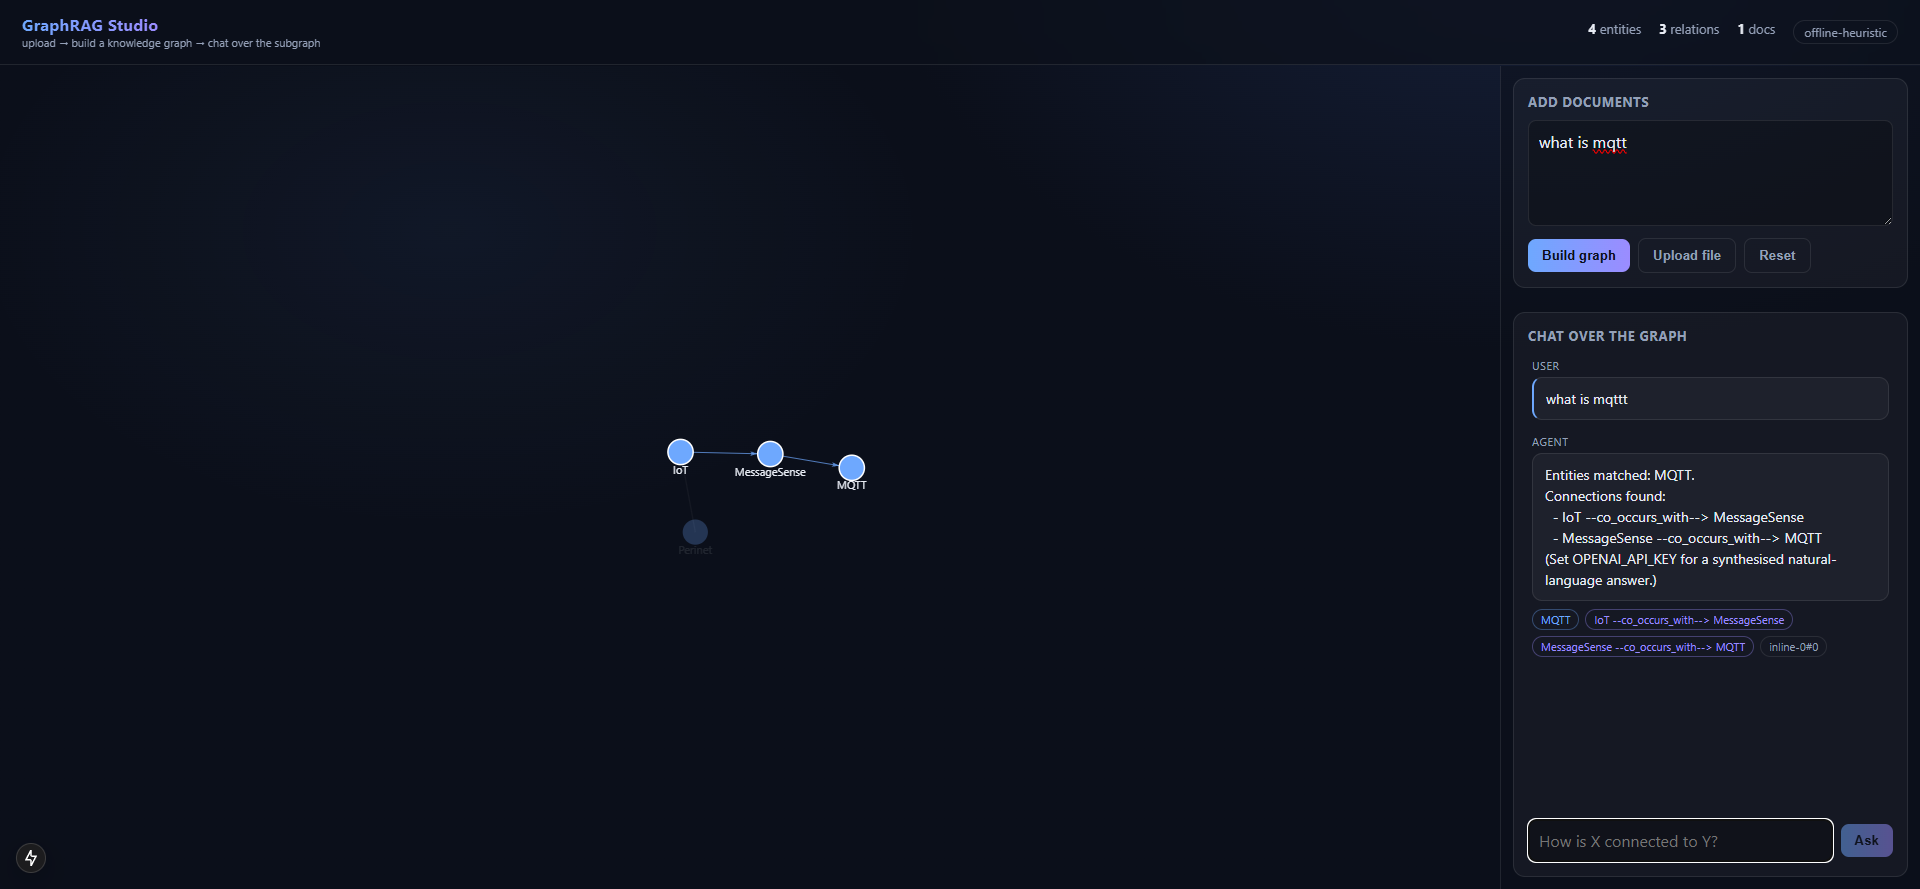
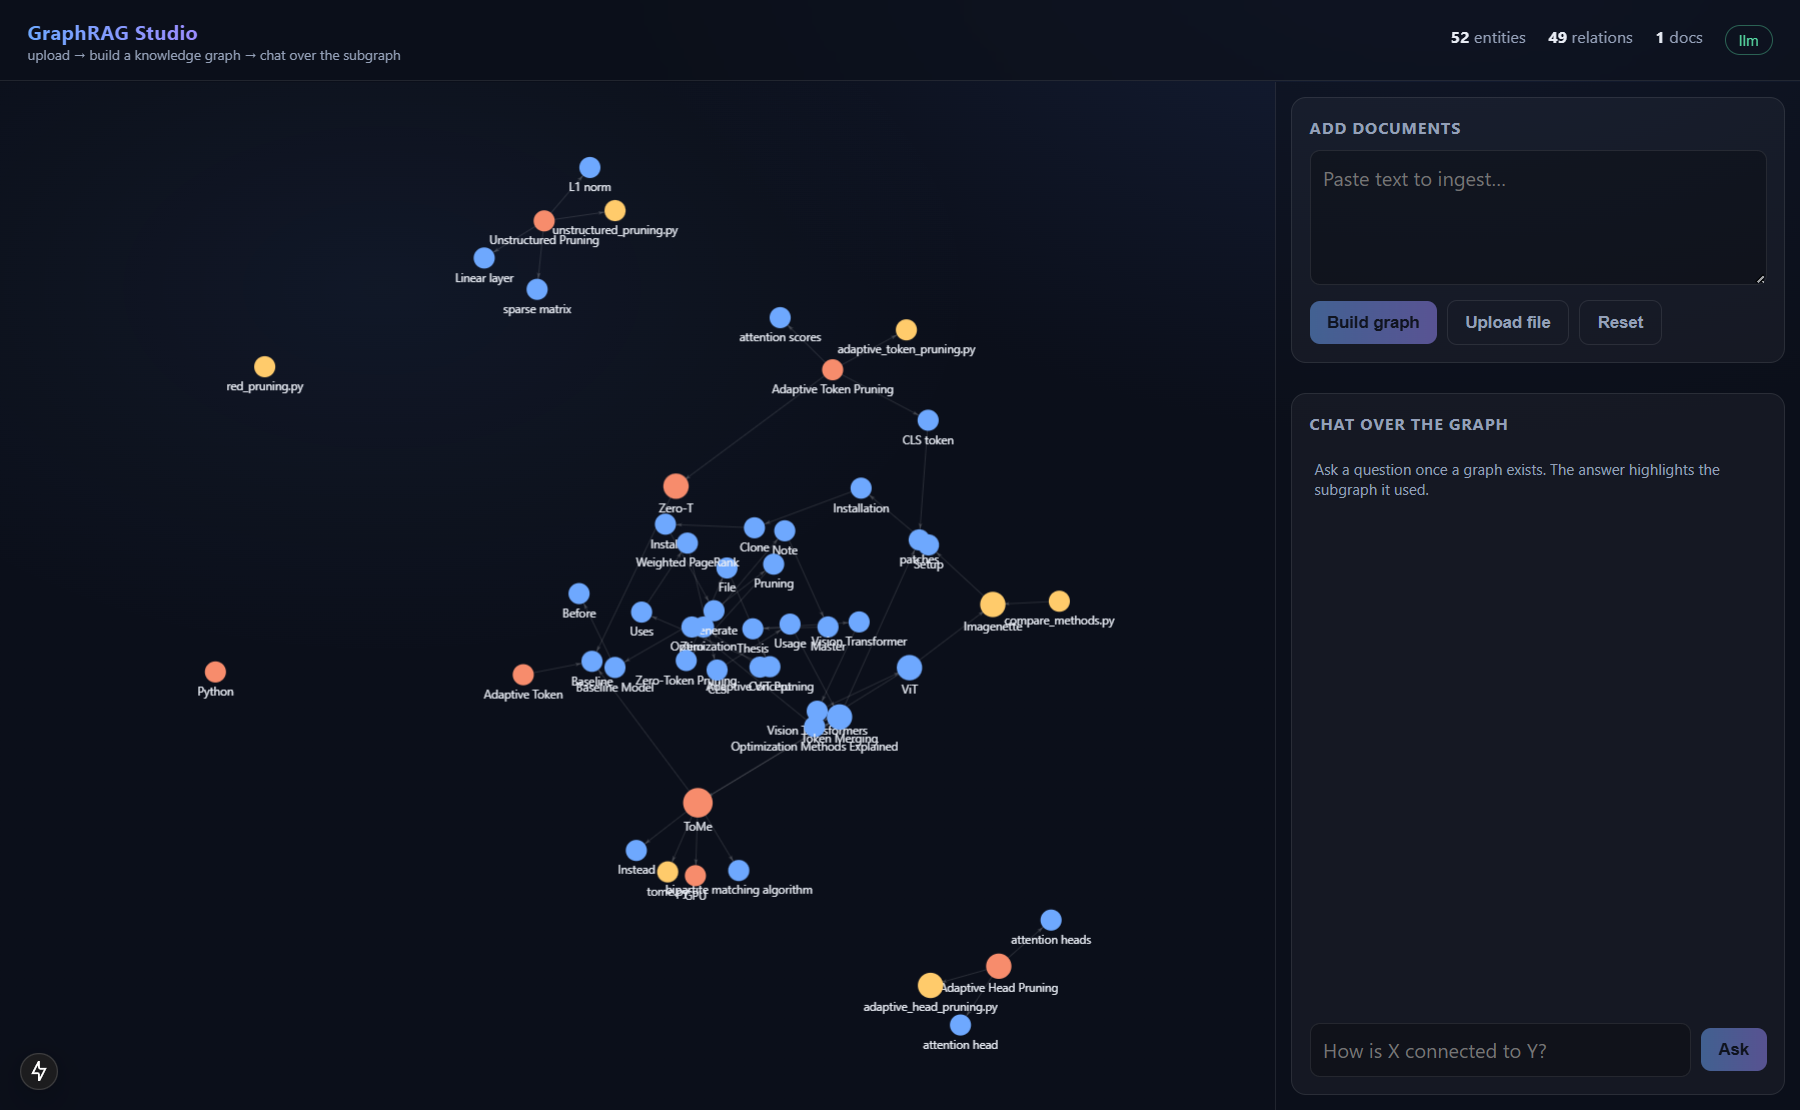
Refresh hero screenshot with new rendering + add image caption
Replace the stale home screenshot with a clean capture using the zoom-to-fit /
labelled rendering, and add a caption explaining the colour/size encoding and
subgraph highlight.

diff --git a/README.md b/README.md
@@ -29,6 +29,9 @@ library — Studio is the application layer on top of it.
 
 ![GraphRAG Studio](docs/screenshot-home.png)
 
+_The knowledge graph built from a document set — entities coloured by type, sized by mention
+count. Ask a question and the retrieved subgraph lights up while the rest dims._
+
 ### On a real corpus — a Master's-thesis repository
 
 Pointed at a thesis repo on efficient Vision Transformer inference and run with a **Claude
